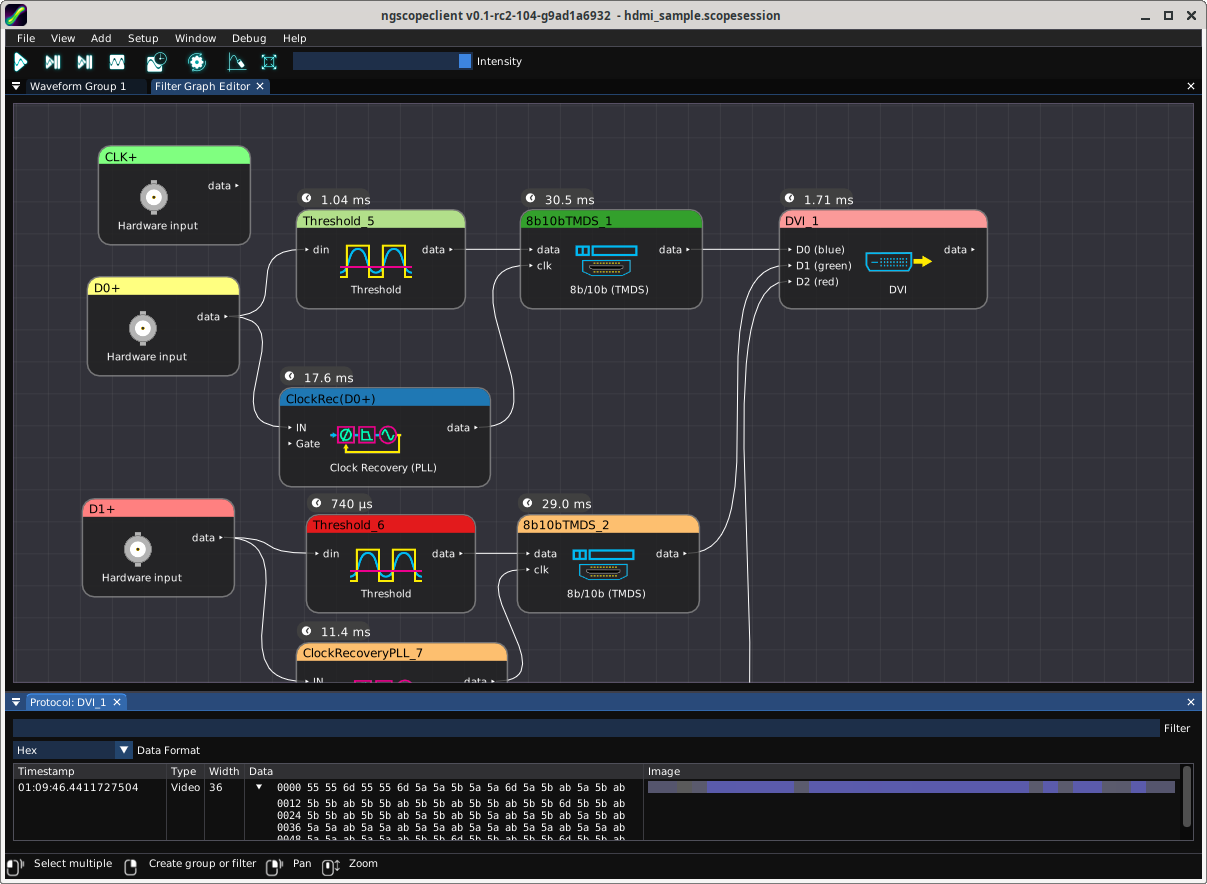
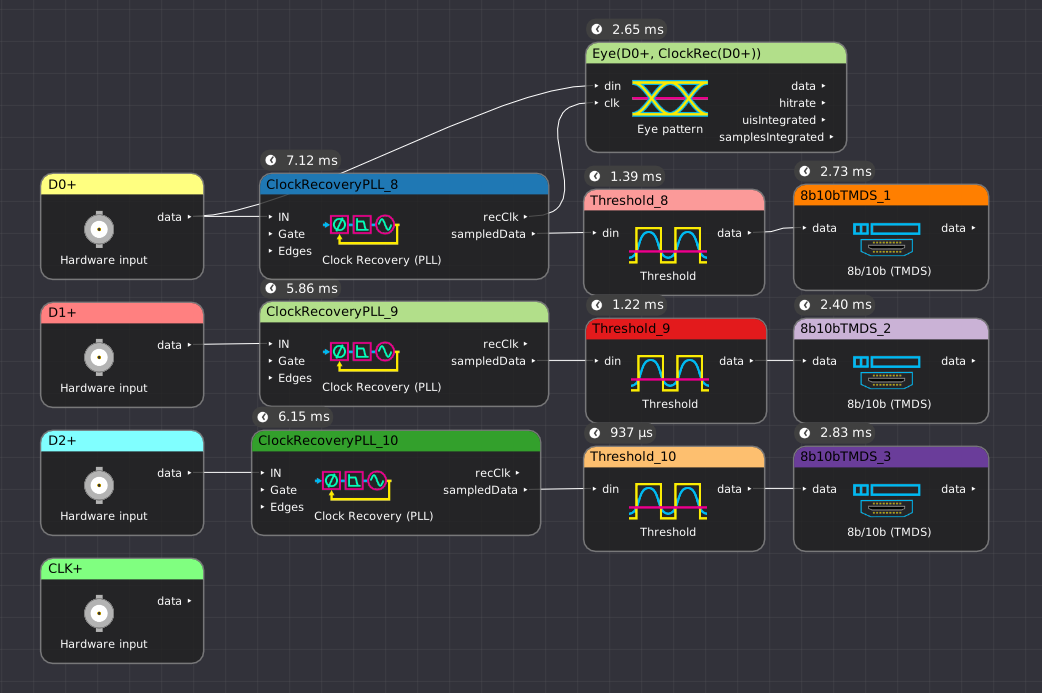
Continued v0.2 doc updating pass

diff --git a/section-decodes.tex b/section-decodes.tex
@@ -426,9 +426,6 @@ the input signal rather than multiplying up the reference clock.}
 \textbf{Signal name} & \textbf{Type} & \textbf{Description} \\
 \thickhline
 data & Digital & Serial TMDS data line \\
-\thinhline
-clk & Digital & DDR \emph{bit} clock, typically generated by use of the \hyperref[filter:cdrpll]{Clock Recovery
-(PLL)} filter on the input data. Note that this is 5x the rate of the pixel clock signal. \\
 \thickhline
 \end{tabularx}
 
@@ -470,6 +467,17 @@ Error & Malformed data & \cellcolor{error}\textcolor{white}{Error} & ERROR \\
 Guard band & HDMI data/video guard band & \cellcolor{preamble}\textcolor{white}{Preamble} & GB \\
 \thickhline
 \end{tabularx}
+
+\subsection{Breaking Changes}
+
+This section lists major interface changes that may require projects to be updated.
+
+\begin{itemize}
+\item \textbf{v0.2:} This filter no longer needs the clock input that was required in v0.1.
+Instead, threshold the sampledData output of the \hyperref[filter:cdrpll]{Clock Recovery (PLL)} and pass this to the
+TMDS decode, as shown in Fig. \ref{filter_graph_tmds}.
+\end{itemize}
+
 
 %%%%%%%%%%%%%%%%%%%%%%%%%%%%%%%%%%%%%%%%%%%%%%%%%%%%%%%%%%%%%%%%%%%%%%%%%%%%%%%%%%%%%%%%%%%%%%%%%%%%%%%%%%%%%%%%%%%%%%%%
 \pagebreak
@@ -632,7 +640,6 @@ data & Analog & One sample per cycle of the input waveform containing the sum of
 \thickhline
 \end{tabularx}
 
-
 %%%%%%%%%%%%%%%%%%%%%%%%%%%%%%%%%%%%%%%%%%%%%%%%%%%%%%%%%%%%%%%%%%%%%%%%%%%%%%%%%%%%%%%%%%%%%%%%%%%%%%%%%%%%%%%%%%%%%%%%
 \pagebreak
 \section{Area Under Curve}
@@ -735,6 +742,75 @@ This filter takes no parameters.
 This filter outputs one ADL5205 sample object for each write transaction, formatted as ``write: FA=2 dB, gain=8 dB".
 
 %%%%%%%%%%%%%%%%%%%%%%%%%%%%%%%%%%%%%%%%%%%%%%%%%%%%%%%%%%%%%%%%%%%%%%%%%%%%%%%%%%%%%%%%%%%%%%%%%%%%%%%%%%%%%%%%%%%%%%%%
+\pagebreak
+\section{APB}
+\label{filter:apb}
+
+Decodes the AMBA APB bus, commonly used for connecting low-speed peripherals such as timers and serial ports to CPU
+cores in microcontrollers and SoCs. APB is a parallel bus typically only used in on-chip applications, so this filter
+is normally used with an internal logic analyzer core recording on-die signals to RAM and then reading out via JTAG or
+other debug protocol, or for analyzing VCD dumps from RTL simulation.
+
+\textbf{NOTE}: The following APBv4/5 features are not yet supported by this decode:
+\begin{itemize}
+\item Byte write strobes
+\item Bus errors
+\item Address or data buses larger than 32 bits in size
+\item ID / user tag data
+\item Wakeup signaling
+\end{itemize}
+
+\begin{figure}[h]
+\centering
+\medimage{ng-images/filters/apb.png}
+\caption{Example APB decode}
+\label{filter_apb}
+\end{figure}
+
+\begin{figure}[h]
+\centering
+\bigimage{ng-images/filters/graph-apb.png}
+\caption{Example filter graph showing usage of APB decode}
+\label{filter_graph_apb}
+\end{figure}
+
+\subsection{Inputs}
+
+\begin{tabularx}{16cm}{llX}
+\thickhline
+\textbf{Signal name} & \textbf{Type} & \textbf{Description} \\
+\thickhline
+penable & 1-bit digital & APB enable \\
+\thinhline
+psel & 1-bit digital & APB select \\
+\thinhline
+pready & 1-bit digital & APB ready \\
+\thinhline
+pwrite & 1-bit digital & APB write enable \\
+\thinhline
+pslverr & 1-bit digital & APB error indication (optional)\\
+\thinhline
+paddr & 1-32 bit digital & APB address \\
+\thinhline
+pwdata & 1-32 bit digital & APB write data \\
+\thinhline
+prdata & 1-32 bit digital & APB read data \\
+\thinhline
+pstrb & 1-4 bit digital & APB byte strobe (optional)\\
+\thickhline
+\end{tabularx}
+
+\subsection{Parameters}
+
+This filter takes no parameters.
+
+\subsection{Output Signal}
+
+This filter outputs a time series of APB sample objects, each consisting of a read/write flag, an address, and a data
+value. Additional data will be added in the future once decoding of the full APBv5 protocol is implemented.
+
+%%%%%%%%%%%%%%%%%%%%%%%%%%%%%%%%%%%%%%%%%%%%%%%%%%%%%%%%%%%%%%%%%%%%%%%%%%%%%%%%%%%%%%%%%%%%%%%%%%%%%%%%%%%%%%%%%%%%%%%%
+\FloatBarrier
 \pagebreak
 \section{Autocorrelation}
 \label{filter:autocorrelation}

diff --git a/ngscopeclient-manual.tex b/ngscopeclient-manual.tex
@@ -85,8 +85,10 @@
 \usepackage{ifpdf}
 \ifpdf
 	\newcommand{\bigimage}[1]{\includegraphics[width=16cm]{#1}}
+	\newcommand{\medimage}[1]{\includegraphics[width=10cm]{#1}}
 \else
 	\newcommand{\bigimage}[1]{\includegraphics[width=1024px]{#1}}
+	\newcommand{\medimage}[1]{\includegraphics[width=640px]{#1}}
 \fi
 
 \begin{document}
